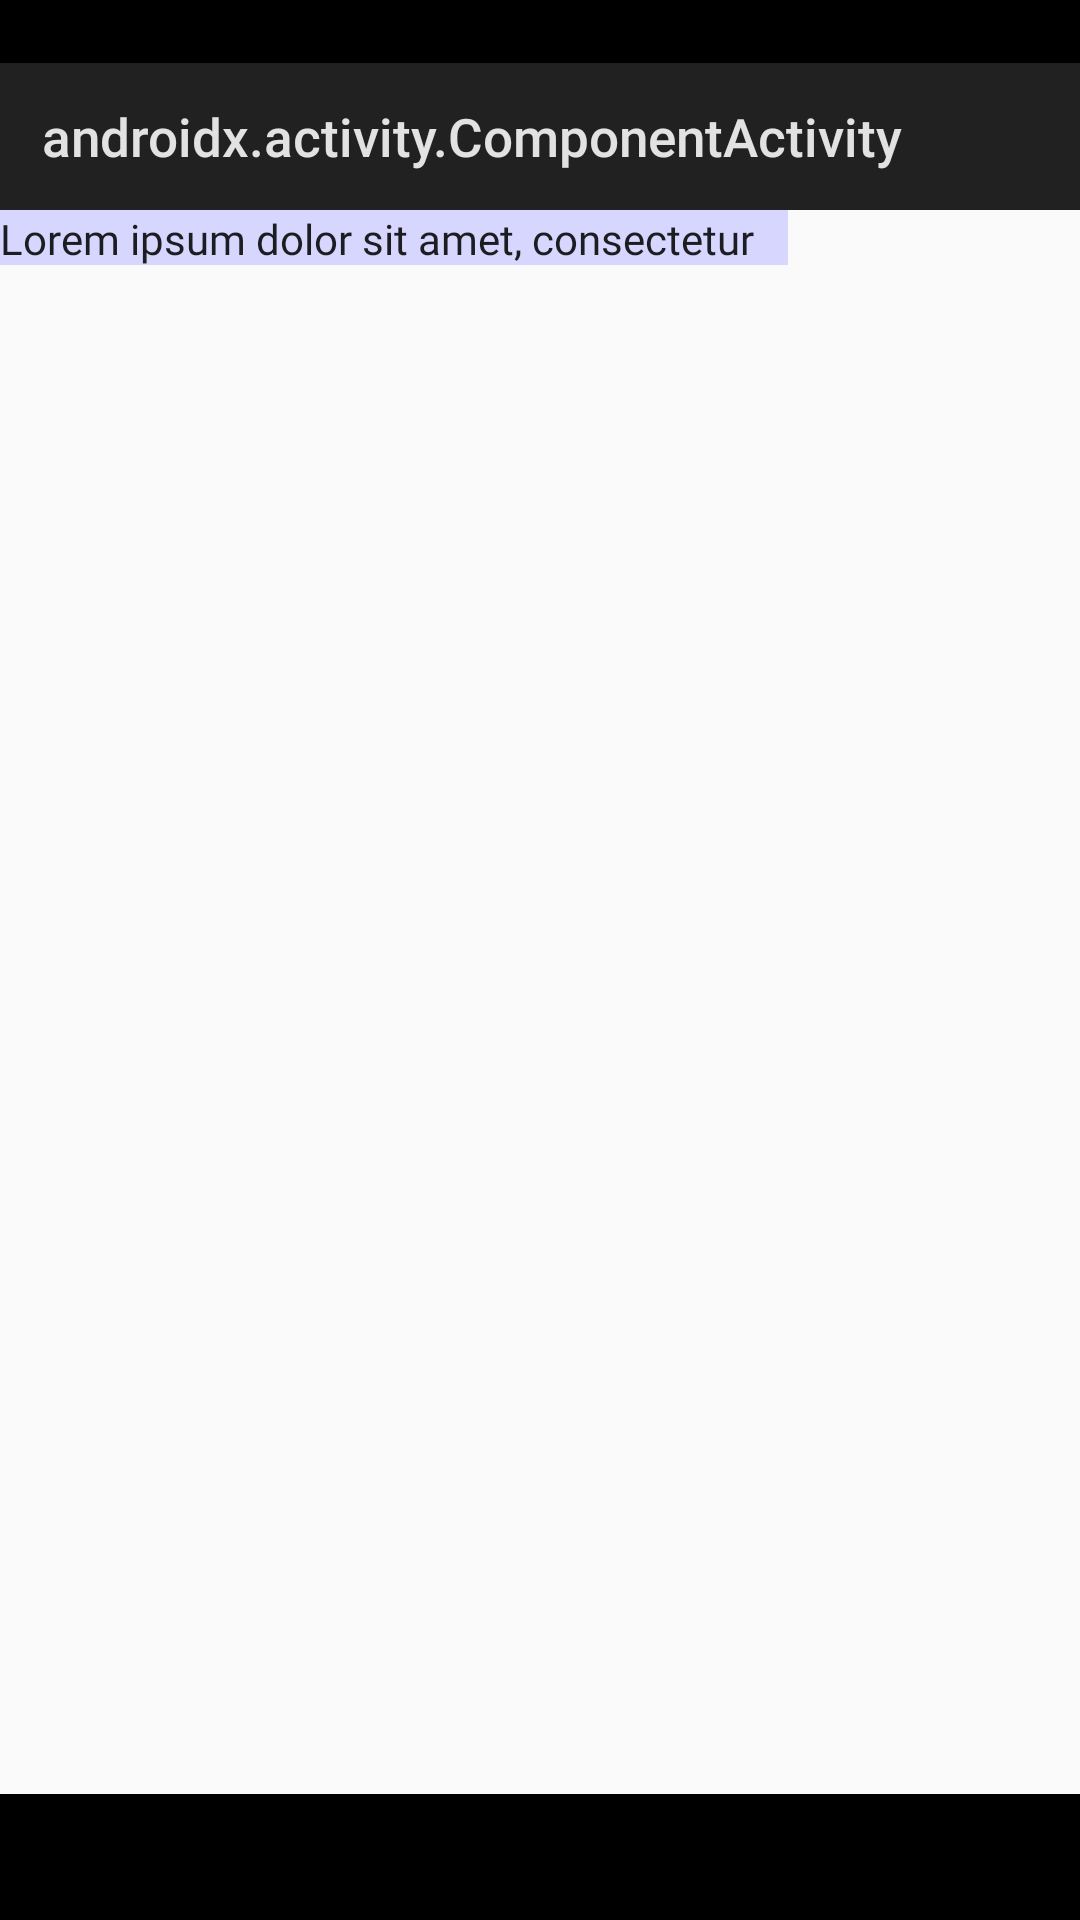
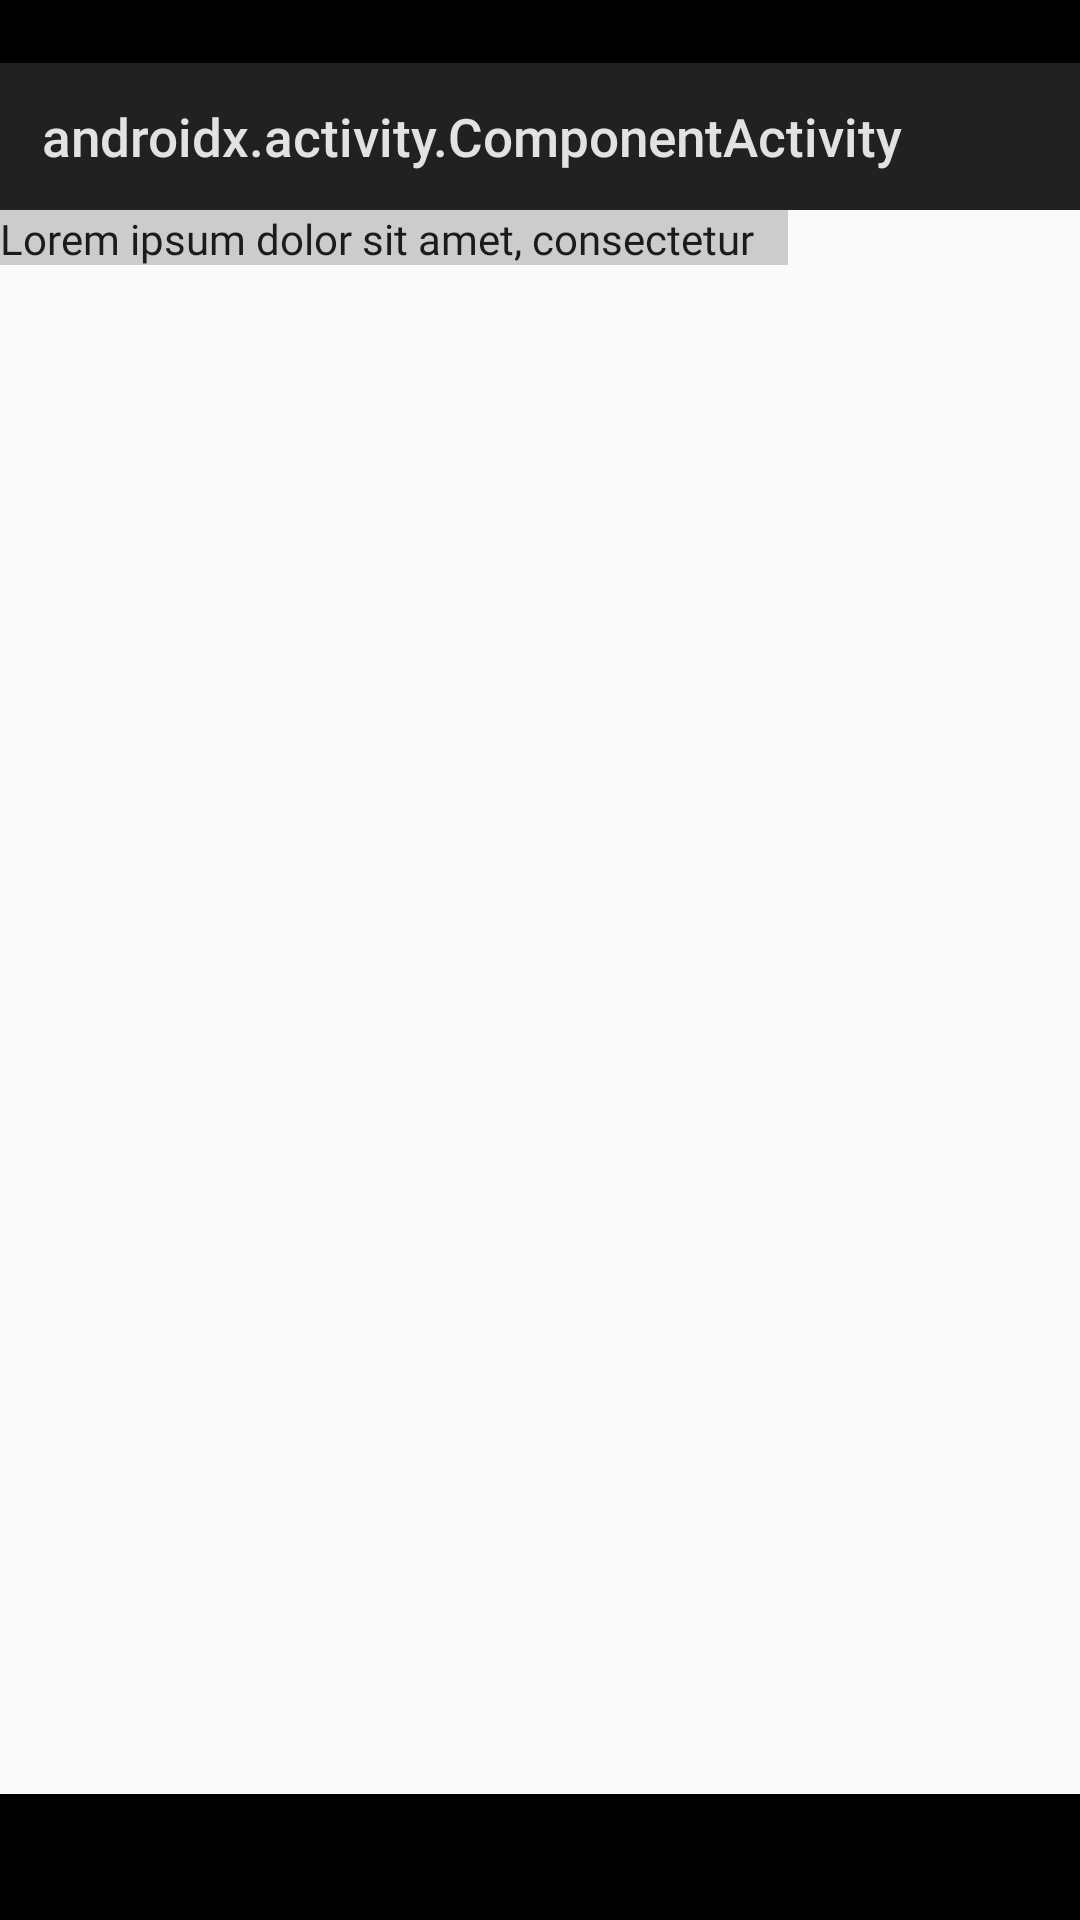
feat: Fixing rgba format + padding, margin horizontal vertical logic (#9)
* :sparkles: Fixing rgba format for color + padding, margin horizontal, vertical logic

* :sparkles: Fixes gist

* merge

* Fixes tests for new alpha implementation

Changed region(s): [[0.0, 0.0938, 0.7333, 0.1562]]

diff --git a/layout/src/main/java/br/com/zup/nimbus/compose/layout/ModifierExtensions.kt b/layout/src/main/java/br/com/zup/nimbus/compose/layout/ModifierExtensions.kt
@@ -41,7 +41,6 @@ import br.com.zup.nimbus.compose.layout.model.ComponentStructure
 import br.com.zup.nimbus.compose.layout.model.Container
 import br.com.zup.nimbus.compose.layout.model.CrossAxisAlignment
 
-
 internal fun Modifier.accessibility(accessibility: Accessibility?, modifier: Modifier = Modifier) = this.then(
     accessibility?.let { a ->
         modifier.semantics(mergeDescendants = true) {
@@ -85,7 +84,7 @@ internal fun Modifier.container(
 internal fun Modifier.applyScopeModifier(
     scope: Any,
     container: Container,
-    modifier: Modifier = Modifier,
+    modifier: Modifier = Modifier
 ) = this.then(with(container) {
     var newModifier = modifier
     when (scope) {
@@ -124,7 +123,7 @@ internal fun Modifier.applyScopeModifier(
 internal fun Modifier.fillMaxSize(
     container: Container,
     parentComponent: ComponentStructure?,
-    modifier: Modifier = Modifier,
+    modifier: Modifier = Modifier
 ) = this.then(
     with(container) {
         var newModifier = modifier
@@ -155,7 +154,7 @@ internal fun Modifier.fillMaxSize(
 
 internal fun Modifier.size(
     container: Container,
-    modifier: Modifier = Modifier,
+    modifier: Modifier = Modifier
 ) = this.then(
     with(container) {
         var newModifier = modifier
@@ -190,84 +189,138 @@ internal fun Modifier.size(
 
 internal fun Modifier.margin(
     container: Container,
-    modifier: Modifier = Modifier,
+    modifier: Modifier = Modifier
 ) = this.then(
     with(container) {
         var newModifier = modifier
 
+        var paddingStart: Double? = null
+        var paddingEnd: Double? = null
+        var paddingTop: Double? = null
+        var paddingBottom: Double? = null
+
         container.margin?.let {
-            newModifier = newModifier.padding(it.dp)
+            paddingStart = it
+            paddingEnd = it
+            paddingTop = it
+            paddingBottom = it
         }
 
         container.marginStart?.let {
-            newModifier = newModifier.padding(start = it.dp)
+            paddingStart = it
         }
 
         container.marginEnd?.let {
-            newModifier = newModifier.padding(end = it.dp)
+            paddingEnd = it
         }
 
         container.marginTop?.let {
-            newModifier = newModifier.padding(top = it.dp)
+            paddingTop = it
         }
 
         container.marginBottom?.let {
-            newModifier = newModifier.padding(bottom = it.dp)
+            paddingBottom = it
         }
 
         container.marginHorizontal?.let {
-            newModifier = newModifier.padding(start = it.dp)
-            newModifier = newModifier.padding(end = it.dp)
+            paddingStart = it
+            paddingEnd = it
         }
 
         container.marginVertical?.let {
-            newModifier = newModifier.padding(top = it.dp)
-            newModifier = newModifier.padding(bottom = it.dp)
+            paddingTop = it
+            paddingBottom = it
         }
+
+        newModifier = padding(modifier = newModifier,
+            paddingStart = paddingStart,
+            paddingEnd = paddingEnd,
+            paddingTop = paddingTop,
+            paddingBottom = paddingBottom)
+
         return@with newModifier
     }
 )
 
 internal fun Modifier.padding(
     container: Container,
-    modifier: Modifier = Modifier,
+    modifier: Modifier = Modifier
 ) = this.then(
     with(container) {
         var newModifier = modifier
+        var paddingStart: Double? = null
+        var paddingEnd: Double? = null
+        var paddingTop: Double? = null
+        var paddingBottom: Double? = null
 
         container.padding?.let {
-            newModifier = newModifier.padding(it.dp)
+            paddingStart = it
+            paddingEnd = it
+            paddingTop = it
+            paddingBottom = it
         }
 
         container.paddingStart?.let {
-            newModifier = newModifier.padding(start = it.dp)
+            paddingStart = it
         }
 
         container.paddingEnd?.let {
-            newModifier = newModifier.padding(end = it.dp)
+            paddingEnd = it
         }
 
         container.paddingTop?.let {
-            newModifier = newModifier.padding(top = it.dp)
+            paddingTop = it
         }
 
         container.paddingBottom?.let {
-            newModifier = newModifier.padding(bottom = it.dp)
+            paddingBottom = it
         }
 
         container.paddingHorizontal?.let {
-            newModifier = newModifier.padding(start = it.dp)
-            newModifier = newModifier.padding(end = it.dp)
+            paddingStart = it
+            paddingEnd = it
         }
 
         container.paddingVertical?.let {
-            newModifier = newModifier.padding(top = it.dp)
-            newModifier = newModifier.padding(bottom = it.dp)
+            paddingTop = it
+            paddingBottom = it
         }
+
+        newModifier = padding(modifier = newModifier,
+            paddingStart = paddingStart,
+            paddingEnd = paddingEnd,
+            paddingTop = paddingTop,
+            paddingBottom = paddingBottom)
 
         return@with newModifier
     }
 )
+
+private fun padding(
+    modifier: Modifier = Modifier,
+    paddingStart: Double?,
+    paddingEnd: Double?,
+    paddingTop: Double?,
+    paddingBottom: Double?,
+): Modifier {
+    var newModifier = modifier
+    paddingStart?.let {
+        newModifier = newModifier.padding(start = it.dp)
+    }
+
+    paddingEnd?.let {
+        newModifier = newModifier.padding(end = it.dp)
+    }
+
+    paddingTop?.let {
+        newModifier = newModifier.padding(top = it.dp)
+    }
+
+    paddingBottom?.let {
+        newModifier = newModifier.padding(bottom = it.dp)
+    }
+    return newModifier
+}
 
 internal fun Modifier.border(
     container: Container,
@@ -439,7 +492,7 @@ internal fun Modifier.border(
     borderDashSpacing: Double = 0.0,
     cornerRadius: Double = 0.0,
     color: Color,
-    modifier: Modifier = Modifier,
+    modifier: Modifier = Modifier
 ) = this.then(
     modifier
         .drawBehind {
@@ -483,4 +536,4 @@ private fun DrawScope.clipToRadius(cornerRadius: Double) {
 }
 
 val String.color
-    get() = Color(android.graphics.Color.parseColor(this))
+    get() = Color(ColorUtils.hexColor(this))

diff --git a/layout/src/main/java/br/com/zup/nimbus/compose/layout/ColorUtils.kt b/layout/src/main/java/br/com/zup/nimbus/compose/layout/ColorUtils.kt
@@ -1,0 +1,34 @@
+package br.com.zup.nimbus.compose.layout
+
+import android.graphics.Color
+
+internal const val RGB_LENGTH = 4
+internal const val RGBA_LENGTH = 9
+internal object ColorUtils {
+
+    fun hexColor(hexColor: String): Int {
+        return when (hexColor.length) {
+            RGB_LENGTH -> Color.parseColor(formatHexRGBColor(hexColor))
+            RGBA_LENGTH -> Color.parseColor(formatHexColorAlpha(hexColor))
+            else -> Color.parseColor(formatHexRGBAColor(hexColor))
+        }
+    }
+
+    private fun formatHexColorAlpha(color: String): String {
+        return "^#([0-9A-F]{6})([0-9A-F]{2})$"
+            .toRegex(RegexOption.IGNORE_CASE)
+            .replace(color, "#\$2\$1")
+    }
+
+    private fun formatHexRGBColor(color: String): String {
+        return "^#([0-9A-F])([0-9A-F])([0-9A-F])?$"
+            .toRegex(RegexOption.IGNORE_CASE)
+            .replace(color, "#\$1\$1\$2\$2\$3\$3")
+    }
+
+    private fun formatHexRGBAColor(color: String): String {
+        return "^#([0-9A-F])([0-9A-F])([0-9A-F])([0-9A-F])?$"
+            .toRegex(RegexOption.IGNORE_CASE)
+            .replace(color, "#\$4\$4\$1\$1\$2\$2\$3\$3")
+    }
+}

diff --git a/sample/src/main/java/br/com/zup/nimbus/compose/layout/sample/Constants.kt b/sample/src/main/java/br/com/zup/nimbus/compose/layout/sample/Constants.kt
@@ -2,4 +2,4 @@ package br.com.zup.nimbus.compose.layout.sample
 
 
 const val BASE_URL = "https://gist.githubusercontent.com/hernandazevedozup/" +
[2 lines of base64/hex data omitted]
